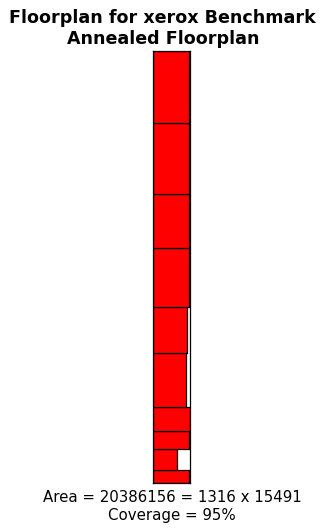
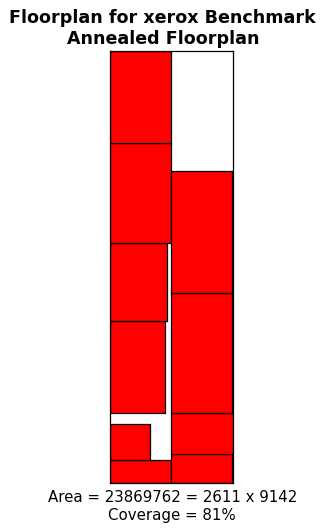
Add cost given root.  Fix bug in Muhammad's min/max functions.  Update progress report code.

Changed region(s): [[0.3077, 0.0904, 0.9231, 0.9944], [0.1231, 0.904, 0.2769, 0.9642]]

diff --git a/metrics.py b/metrics.py
@@ -1,16 +1,8 @@
-#####
-import annealer
 import classes
-import metrics
 import numpy as np
-import parseData as pd
-#import templateToCallData as temp
+import utils
 
-<<<<<<< HEAD
-#print temp.matrix
 
-=======
->>>>>>> 0a288232ab9d41b2eafdf721fea5600db5d96f06
 # Finding midpoints of rectangles
 def findMid(rectangles):
 	
@@ -20,7 +12,7 @@ def findMid(rectangles):
 	
 	matrix_dist = np.zeros((length,length))
 	for r in range(length):
-		print('\n')
+		#print('\n')
 		midx1 = rectangles[r].x + rectangles[r].w/2
 		midy1 = rectangles[r].y + rectangles[r].h/2
 		#print (midx1,midy1)
@@ -30,9 +22,9 @@ def findMid(rectangles):
 			t+=1
 			#print(midx2,midy2)
 			matrix_dist[r][c] = abs(midx2 - midx1) + abs(midy2-midy1)	
-			print (matrix_dist[r][c]),
-	print('\n')
-	print(t)
+			#print (matrix_dist[r][c]),
+	#print('\n')
+	#print(t)
 	return (matrix_dist)
 
 	
@@ -54,7 +46,7 @@ def findMinY(rectangles):
 def findMaxX(rectangles):   
     maxx = 0
     for r in rectangles:
-        if(r.x > maxx):
+        if(r.x+r.w > maxx):
             maxx = r.x + r.w
             
     return maxx
@@ -62,7 +54,7 @@ def findMaxX(rectangles):
 def findMaxY(rectangles):   
     maxy = 0
     for r in rectangles:
-        if(r.y > maxy):
+        if(r.y +r.h> maxy):
             maxy = r.y + r.h
             
     return maxy
@@ -76,7 +68,7 @@ def getAreaFloorplan(rectangles): # total area of floor
     MAX_X = findMaxX(rectangles)
     MAX_Y = findMaxY(rectangles)
     tot_fp_area = (MAX_X - MIN_X) * (MAX_Y - MIN_Y)
-    print (tot_fp_area)
+    #print (tot_fp_area)
     return tot_fp_area
 
 def getCoverage(rectangles): # sum of individual areas
@@ -94,15 +86,18 @@ def getAreaRectangle(rectangleName): # rectangle name to rectangle area, need to
 	
     return 0
 
-<<<<<<< HEAD
+
 ################################################################################
 def costWithLamdas(rectangles, costParameters):
 	dist_matrix = (findMid(rectangles))
 	#print(dist_matrix)
+
 	sum_of_areas = (getCoverage(rectangles)) # sum of areas of individual rectangles
 	#print(sum_of_areas)
+	
 	total_area = (getAreaFloorplan(rectangles)) # total area of floorplan
 	#print(total_area)
+	
 	matrix = costParameters.lamda # connection matrix 
 	k = costParameters.k
 	alpha = costParameters.alpha
@@ -120,7 +115,7 @@ def costWithLamdas(rectangles, costParameters):
 	# Compute area based on new matrix
 	covered_area = (total_area - sum_of_areas)
 	whitespace = (sum_of_areas/total_area) *100
-	print(whitespace)
+	#print(whitespace)
 	cost = (alpha * total_area) *(1 - alpha)* cost_p2
 	return cost
 ################################################################################
@@ -134,11 +129,15 @@ def costWithLamdas(rectangles, costParameters):
 
 #print(manhattanDist(rectangles))
 
-=======
->>>>>>> 0a288232ab9d41b2eafdf721fea5600db5d96f06
 #############################################################################
 # Compute cost of a slicing tree based on overall area alone
 def costArea(root):
 	return root.w*root.h
+
+
+def costWithLamdasFromRoot(root, costParameters):
+	# construct new rectangles
+	rectangles = utils.getRectanglesFromRoot(root)
+	return costWithLamdas(rectangles, costParameters)
 
 

diff --git a/progressReportUpdate.py b/progressReportUpdate.py
@@ -4,13 +4,44 @@ import metrics
 import alignImages
 import classes
 import utils
+import numpy as np
 
 annealingParameters = classes.AnnealingParameters(100,.85,5,.05,1,1)
 
+
 def analyzeAllBenchmarks():
 	for dataset in utils.benchmarks:
-		initializeMatchPairs(dataset)
-		anneal(dataset, annealingParameters,metrics.costArea)
-		alignImages.createImages('Output/initialMatchPairs_','Output/annealing_','Output/Comparison of Initial to Annealed_')
+		(root, rectangles, dictionary, matrix) = initializeMatchPairs(dataset)
+
+		length = len(rectangles)
+		costParameters = classes.CostParameters(np.ones((length,length)),0.5,2,matrix)
+
+		# Curry cost function
+		def newCost(inRoot):
+			#return metrics.costWithLamdas(rectangles, costParameters)
+			return metrics.costWithLamdasFromRoot(inRoot, costParameters)
+
+		print(metrics.costWithLamdas(rectangles,costParameters))
+		print(newCost(root))
+		#print("Length of root rectangles = " + str(len(utils.getRectanglesFromRoot(root))))
+		#return
+
+		anneal(dataset, annealingParameters,newCost)
+
+		alignImages.createImages('Output/initialMatchPairs_','Output/annealing_','Output/Comparison of Initial to Annealed (new cost)_')
+
+
+
+
+
 
 analyzeAllBenchmarks()
+
+
+def analyzeAllBenchmarksAreaOnly():
+	for dataset in utils.benchmarks:
+		(root, rectangles, dictionary, matrix) = initializeMatchPairs(dataset)
+		anneal(dataset, annealingParameters,metrics.costArea)
+		alignImages.createImages('Output/initialMatchPairs_','Output/annealing_','Output/Comparison of Initial to Annealed (area cost)_')
+
+#analyzeAllBenchmarksAreaOnly()

diff --git a/utils.py b/utils.py
@@ -220,3 +220,19 @@ def flipNode(node):
 		flipNode(node.right)
 
 	return True
+
+# Obtain new list of rectangles from root (used for cost function)
+def getRectanglesFromRoot(root):
+	if root.type == 'rect':
+		return [root.rect]
+
+	rectangles = []
+
+	if root.left is not None:
+		rectangles += getRectanglesFromRoot(root.left)
+
+	if root.right is not None:
+		rectangles += getRectanglesFromRoot(root.right)
+
+	return rectangles
+

diff --git a/annealer.py b/annealer.py
@@ -121,7 +121,7 @@ def analyzeAllBenchmarks():
 	for dataset in utils.benchmarks:
 		print("Starting benchmark analysis: " + dataset)
 		anneal(dataset, annealingParameters,metrics.costArea)
-analyzeAllBenchmarks()
+#analyzeAllBenchmarks()
 #anneal(utils.benchmarks[0], annealingParameters,metrics.costArea)
 #anneal('ami49', annealingParameters,metrics.costArea)
 #anneal(utils.benchmarks[4], annealingParameters,metrics.costArea)
